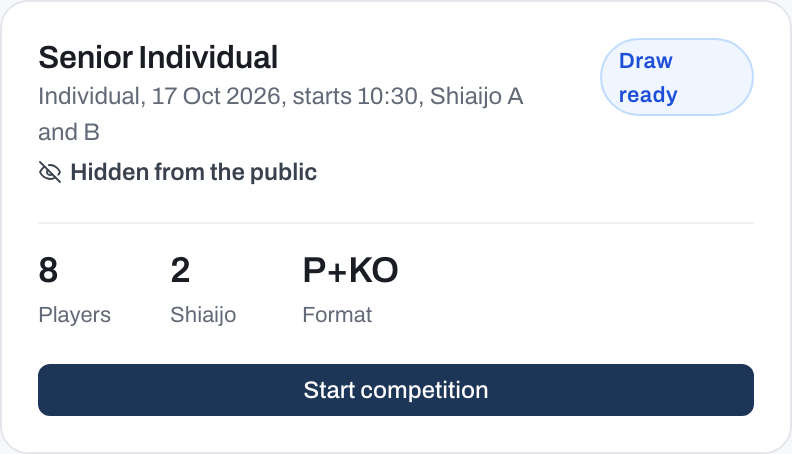
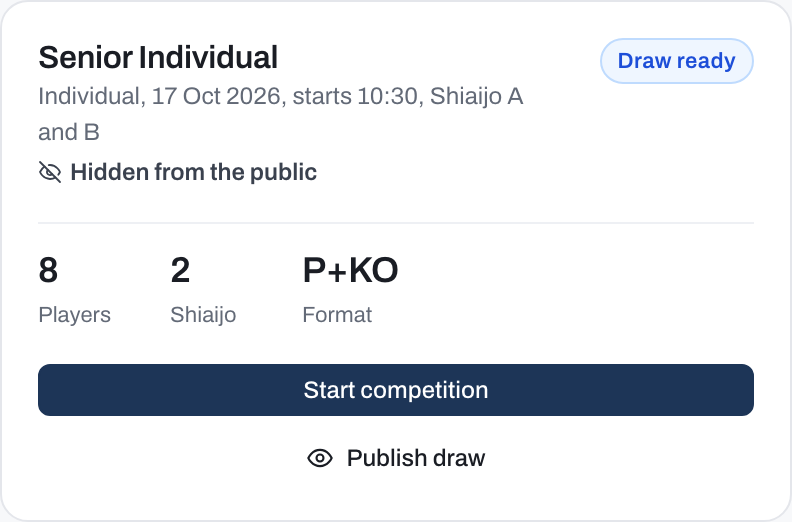
feat(bc-drpb): publish from the dashboard card, bordered Publish draw, one-line badge
Design critique round bc-drpb-critique-2:
- D2: Publish draw / Unpublish in the draw preview header is the bordered
  secondary button, apart from the ghost Discard draw.
- D4: a draw-ready card on the dashboard offers its own Publish draw
  (Unpublish once public) under Start competition; the host makes the same
  write and toast as the header's.
- D5: the dashboard card's status badge never wraps inside its pill.
D1 and D3 stay as they are. Also fixes a stale CSS comment that still named
the home badge "Draw being prepared".

diff --git a/web-mobile/js/admin_shell.jsx b/web-mobile/js/admin_shell.jsx
@@ -14,7 +14,7 @@ import { whenConfirmed } from './unsaved_entries.jsx';
 import { downloadBlob } from './blob_download.jsx';
 import { Icon } from './icon.jsx';
 import { andList } from './list_phrase.jsx';
-import { confirmStartHiddenDraw, drawHiddenFromPublic, drawVisibilityCardLine, drawVisibilityIcon } from './draw_visibility.jsx';
+import { confirmStartHiddenDraw, drawHiddenFromPublic, drawVisibilityCardLine, drawVisibilityIcon, PUBLISH_DRAW_LABEL, UNPUBLISH_DRAW_LABEL } from './draw_visibility.jsx';
 
 const { useState, useMemo, useEffect, useRef, useLayoutEffect } = React;
 
@@ -424,7 +424,7 @@ function AllWinnersModal({ comps, onClose }) {
   );
 }
 
-function AdminDashboard({ tournament, password, onOpenCompetition, onCreateCompetition, onEditTournament, onAnnounce, onOpenSchedule, onOpenCalendar, onOpenScoreEditor, onOpenImport, onOpenBackup, onOpenShiaijo, onOpenRegistration, onStartAll, onStartCompetition, onLogout, onViewerMode, onUpdate, showToast, authConfig }) {
+function AdminDashboard({ tournament, password, onOpenCompetition, onCreateCompetition, onEditTournament, onAnnounce, onOpenSchedule, onOpenCalendar, onOpenScoreEditor, onOpenImport, onOpenBackup, onOpenShiaijo, onOpenRegistration, onStartAll, onStartCompetition, onSetDrawVisibility, onLogout, onViewerMode, onUpdate, showToast, authConfig }) {
   const t = tournament;
   const comps = t.competitions || NO_COMPETITIONS;
   // Whether "Start all" has anything to offer, answered by the same helper the
@@ -633,7 +633,7 @@ function AdminDashboard({ tournament, password, onOpenCompetition, onCreateCompe
 
         <div className="section-title">All competitions</div>
         <div className="tlist">
-          {comps.map((c) => <CompCard key={c.id} c={c} onOpen={() => onOpenCompetition(c.id, initialSectionFor(c.status))} onStart={() => onStartCompetition(c.id)} tournament={t} showToast={showToast} />)}
+          {comps.map((c) => <CompCard key={c.id} c={c} onOpen={() => onOpenCompetition(c.id, initialSectionFor(c.status))} onStart={() => onStartCompetition(c.id)} onSetDrawVisibility={(publish) => onSetDrawVisibility(c.id, publish)} tournament={t} showToast={showToast} />)}
           {/* This section only renders when competitions exist (the empty-tournament
               case is handled by the first-run empty state above), so the dashed
               tile stays a quiet "add another", not the promoted first-run CTA. */}
@@ -818,7 +818,7 @@ function ExportPdfModal({ tournament, password, comps, onClose, showToast }) {
   );
 }
 
-function CompCard({ c, onOpen, onStart, tournament, showToast }) {
+function CompCard({ c, onOpen, onStart, onSetDrawVisibility, tournament, showToast }) {
   const { running: runningCount } = compMatchStats(c);
   const playerCount = (c.players || []).length;
   const courts = c.courts || [];
@@ -862,6 +862,16 @@ function CompCard({ c, onOpen, onStart, tournament, showToast }) {
   const start = () => {
     if (!drawHidden) { onStart(); return; }
     confirmStartHiddenDraw(tournament, c).then((ok) => { if (ok) onStart(); });
+  };
+
+  // Publish draw / Unpublish from the card (bc-drpb), a quiet action under
+  // Start, so six hidden draws need no six page visits. The host makes the
+  // write and the toast, as the draw preview header's button does; the card
+  // only keeps the button busy until the refetch brings the new state.
+  const [settingVisibility, setSettingVisibility] = useState(false);
+  const toggleVisibility = () => {
+    setSettingVisibility(true);
+    onSetDrawVisibility(drawHidden).finally(() => setSettingVisibility(false));
   };
 
   return (
@@ -920,6 +930,18 @@ function CompCard({ c, onOpen, onStart, tournament, showToast }) {
               onClick={(e) => { e.stopPropagation(); start(); }}
               disabled={!!startBlocker}
             >Start competition</button>
+          )}
+          {showDrawVisibility && (
+            <button
+              type="button"
+              className="btn btn--ghost btn--sm btn--full"
+              onClick={(e) => { e.stopPropagation(); toggleVisibility(); }}
+              disabled={settingVisibility}
+              data-testid="card-draw-visibility-toggle"
+            >
+              {settingVisibility ? <span className="spinner" /> : <Icon name={drawHidden ? "eye" : "eye-off"} size={14} />}
+              {settingVisibility ? (drawHidden ? "Publishing…" : "Hiding…") : (drawHidden ? PUBLISH_DRAW_LABEL : UNPUBLISH_DRAW_LABEL)}
+            </button>
           )}
           {/* The reason, not just a dead button: the operator has to know
               which screen fixes it. Kept on the card rather than in a tooltip

diff --git a/web-mobile/js/__tests__/render/dashboard_draw_visibility.render.test.jsx b/web-mobile/js/__tests__/render/dashboard_draw_visibility.render.test.jsx
@@ -61,14 +61,14 @@ const makeComp = (over = {}) => ({
   ...over,
 });
 
-async function mountCard({ c = makeComp(), tournament = OFFICIATED, onStart = vi.fn() } = {}) {
+async function mountCard({ c = makeComp(), tournament = OFFICIATED, onStart = vi.fn(), onOpen = noop, onSetDrawVisibility = vi.fn().mockResolvedValue(undefined) } = {}) {
   let result;
   await act(async () => {
     result = render(
-      <CompCard c={c} onOpen={noop} onStart={onStart} tournament={tournament} showToast={noop} />
+      <CompCard c={c} onOpen={onOpen} onStart={onStart} onSetDrawVisibility={onSetDrawVisibility} tournament={tournament} showToast={noop} />
     );
   });
-  return { ...result, onStart };
+  return { ...result, onStart, onSetDrawVisibility };
 }
 
 const line = (container) => container.querySelector('[data-testid="card-draw-visibility"]');
@@ -101,6 +101,51 @@ describe('Dashboard card: who can see the draw (FR16)', () => {
   it('a self-run tournament shows no line, even for a draft stored as hidden', async () => {
     const { container } = await mountCard({ c: makeComp({ drawHidden: true }), tournament: SELF_RUN });
     expect(line(container)).toBeNull();
+  });
+});
+
+const visibilityToggle = (container) => container.querySelector('[data-testid="card-draw-visibility-toggle"]');
+
+describe('Dashboard card: Publish draw and Unpublish (round critique-2 D4)', () => {
+  it('a hidden draft offers Publish draw, which asks the host to publish without opening the card', async () => {
+    const onOpen = vi.fn();
+    const { container, onSetDrawVisibility } = await mountCard({ c: makeComp({ drawHidden: true }), onOpen });
+    const btn = visibilityToggle(container);
+    expect(btn.textContent).toBe('Publish draw');
+    expect(btn.querySelector('svg').getAttribute('data-icon')).toBe('eye');
+    await act(async () => { fireEvent.click(btn); });
+    expect(onSetDrawVisibility).toHaveBeenCalledWith(true);
+    expect(onOpen).not.toHaveBeenCalled();
+    expect(confirmDialog).not.toHaveBeenCalled();
+  });
+
+  it('a published draft offers Unpublish, which asks the host to hide it', async () => {
+    const { container, onSetDrawVisibility } = await mountCard({ c: makeComp() });
+    const btn = visibilityToggle(container);
+    expect(btn.textContent).toBe('Unpublish');
+    await act(async () => { fireEvent.click(btn); });
+    expect(onSetDrawVisibility).toHaveBeenCalledWith(false);
+  });
+
+  it('the button stays busy until the host has answered', async () => {
+    let answer;
+    const onSetDrawVisibility = vi.fn(() => new Promise((resolve) => { answer = resolve; }));
+    const { container } = await mountCard({ c: makeComp({ drawHidden: true }), onSetDrawVisibility });
+    await act(async () => { fireEvent.click(visibilityToggle(container)); });
+    expect(visibilityToggle(container).disabled).toBe(true);
+    expect(visibilityToggle(container).textContent).toBe('Publishing…');
+    await act(async () => { answer(); });
+    expect(visibilityToggle(container).disabled).toBe(false);
+  });
+
+  it.each(['setup', 'pools', 'knockout', 'completed'])('a competition in %s offers no Publish draw', async (status) => {
+    const { container } = await mountCard({ c: makeComp({ status, drawHidden: true }) });
+    expect(visibilityToggle(container)).toBeNull();
+  });
+
+  it('a self-run tournament offers no Publish draw', async () => {
+    const { container } = await mountCard({ c: makeComp({ drawHidden: true }), tournament: SELF_RUN });
+    expect(visibilityToggle(container)).toBeNull();
   });
 });
 

diff --git a/web-mobile/js/admin.jsx b/web-mobile/js/admin.jsx
@@ -30,7 +30,7 @@ import { dismissToastById } from './toast_queue.jsx';
 import { onDocumentSettled } from './document_versions.jsx';
 import { PUBLIC_NAMES_APPLY_CONFIRM, confirmPublicNamesApply } from './public_names_fields.jsx';
 import { useLatestRef } from './latest_ref.jsx';
-import { startAllHiddenDrawsNote } from './draw_visibility.jsx';
+import { startAllHiddenDrawsNote, DRAW_PUBLISHED_TOAST, DRAW_UNPUBLISHED_TOAST } from './draw_visibility.jsx';
 
 const { useState, useEffect, useRef } = React;
 
@@ -697,6 +697,24 @@ function AdminApp({ tournament, onUpdate, onLogout, onViewerMode, onPasswordChan
     showToast(`${c.name} started`);
   };
 
+  // Publish draw / Unpublish from a dashboard card (bc-drpb): the same writes
+  // and toasts as the draw preview header's, then the refetch brings the card
+  // its new state. A refusal (the draft was started or discarded elsewhere
+  // meanwhile) says the server's sentence and refetches, as the header does.
+  const setDrawVisibility = async (cid, publish) => {
+    const action = publish ? "Publish draw" : "Unpublish";
+    try {
+      if (publish) await window.API.publishDraw(cid, password);
+      else await window.API.unpublishDraw(cid, password);
+    } catch (e) {
+      showToast(e.message, "error");
+      if (e.code) await refreshCompsBestEffort(action);
+      return;
+    }
+    await refreshCompsBestEffort(action);
+    showToast(publish ? DRAW_PUBLISHED_TOAST : DRAW_UNPUBLISHED_TOAST);
+  };
+
   // Re-throws after surfacing the error toast, exactly like updateCompetition
   // and addCompetition above, so the Edit-details form can put the server's
   // reason in its own banner. It used to swallow the rejection into a `false`
@@ -1042,6 +1060,7 @@ function AdminApp({ tournament, onUpdate, onLogout, onViewerMode, onPasswordChan
         onOpenShiaijo={(court) => setView({ kind: "shiaijo", court })}
         onStartAll={startAllCompetitions}
         onStartCompetition={startCompetition}
+        onSetDrawVisibility={setDrawVisibility}
         onLogout={onLogout}
         onViewerMode={onViewerMode}
         onUpdate={onUpdate}

diff --git a/web-mobile/js/admin_competition.jsx b/web-mobile/js/admin_competition.jsx
@@ -553,7 +553,7 @@ function AdminCompetition({ tournament, competition, pools, poolMatches, standin
                     {discarding ? "Discarding…" : "Discard draw"}
                   </button>
                   {!selfRun && (
-                    <button type="button" className="btn btn--ghost" onClick={toggleDrawVisibility} disabled={navBusy} data-testid="draw-visibility-toggle">
+                    <button type="button" className="btn" onClick={toggleDrawVisibility} disabled={navBusy} data-testid="draw-visibility-toggle">
                       {publishing ? <span className="spinner" /> : <Icon name={drawHidden ? "eye" : "eye-off"} size={14} />}
                       {publishing ? (drawHidden ? "Publishing…" : "Hiding…") : (drawHidden ? PUBLISH_DRAW_LABEL : UNPUBLISH_DRAW_LABEL)}
                     </button>

diff --git a/web-mobile/css/styles.css b/web-mobile/css/styles.css
@@ -1829,7 +1829,7 @@ a:hover {
   }
 }
 
-/* The public status badge of a hidden draft: "Draw being prepared". A dashed
+/* The public status badge of a hidden draft: "Preparing draw". A dashed
    hairline marks it as not yet settled; the organiser's badge keeps
    .badge--draw-ready. */
 .badge--draw-preparing {
@@ -1965,6 +1965,14 @@ a:hover {
   align-items: flex-start;
   justify-content: space-between;
   gap: 8px;
+}
+
+/* The status badge never breaks over two lines inside its pill ("Draw" over
+   "ready" beside a long details line): the details wrap instead, as on the
+   public home list's .badge--draw-preparing. */
+.tcard__head .badge {
+  white-space: nowrap;
+  flex: none;
 }
 
 .tcard__name {

diff --git a/web-mobile/js/__tests__/render/draw_preview_publish.render.test.jsx b/web-mobile/js/__tests__/render/draw_preview_publish.render.test.jsx
@@ -98,6 +98,12 @@ describe('the draw preview header (bc-drpb)', () => {
     expect(state().className).toContain('draw-visibility-line--hidden');
   });
 
+  it('Publish draw is the bordered secondary button, apart from the ghost Discard draw (round critique-2 D2)', async () => {
+    const { container } = await mount({ hidden: true });
+    const toggle = container.querySelector('[data-testid="draw-visibility-toggle"]');
+    expect(toggle.className.split(' ')).toEqual(['btn']);
+  });
+
   it('the hint ends with a link to this competition\'s public page, in a new tab', async () => {
     await mount({ hidden: true });
     expect(publicLink().getAttribute('href')).toBe('/competition/c1');

diff --git a/docs/user-guide/organisers/run-tournament.md b/docs/user-guide/organisers/run-tournament.md
@@ -270,9 +270,9 @@ The line below the buttons reads:
 - While it is hidden: "Hidden from the public. Publish draw or Start competition makes it public."
 - Once it is published: "Published. The public can see this draw. Changes you make show on public pages at once."
 
-The dashboard card of a draw-ready competition shows the same thing at a glance: a crossed-out eye and "Hidden from the public", or an open eye and "Public".
+The dashboard card of a draw-ready competition shows the same thing at a glance: a crossed-out eye and "Hidden from the public", or an open eye and "Public". Under **Start competition**, the card has its own **Publish draw** (**Unpublish** once public), which works as the header's does, so you can publish several draws from the dashboard without opening each competition.
 
-![A dashboard card of a draw-ready competition with a crossed-out eye and the words Hidden from the public.](../../screenshots/draw-hidden-card.png)
+![A dashboard card of a draw-ready competition with a crossed-out eye and the words Hidden from the public, Start competition, and Publish draw under it.](../../screenshots/draw-hidden-card.png)
 
 - **Publish draw** shows the draw on the public pages at once, without waiting for the start. It asks nothing first. Once published, the button reads **Unpublish**.
 - **Unpublish** hides the draw again, for example when you published it by mistake or spotted an error after publishing. The app says "Hidden again. Anyone who looked still has what they saw.": a spectator who already read the draw, took a screenshot or printed it keeps that copy, so tell people when a published draw changes.
